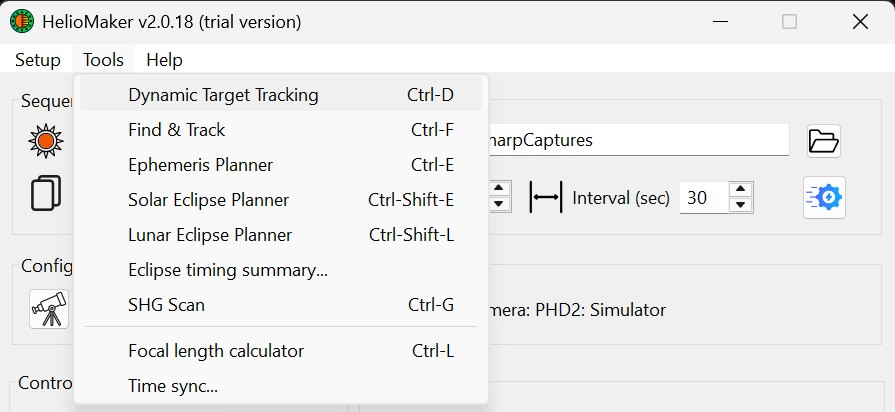
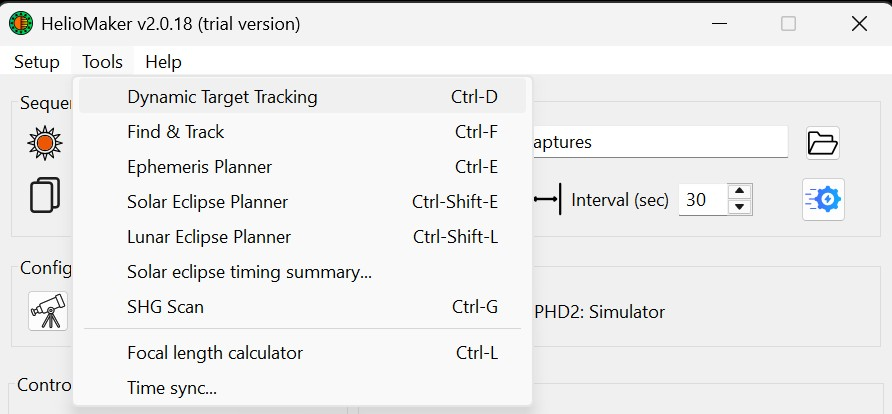
Publish help, solar and lunar guides from HelioMaker a6e2355a

diff --git a/help/WhatsNew.htm b/help/WhatsNew.htm
@@ -165,6 +165,19 @@
         Lunar Eclipse Planner, SHG Scanner, and Focal Length Calculator.
     </p>
     <figure class="shot"><img src="Images/tools_menu.jpg" srcset="Images/tools_menu.jpg 1.5x" alt="Tools menu" class="fig fig-75"></figure>
+    <p>
+        Some entries are available only while HelioMaker is linked to the applications they work with, and stay
+        disabled in the menu until then. <strong>Dynamic Target Tracking</strong> needs PHD2 with its mount connected.
+        <strong>Find &amp; Track</strong> needs PHD2 with its camera and mount connected, and SharpCap Pro as well when
+        PHD2 uses the Virtual Planetary Camera. <strong>SHG Scan</strong> needs both SharpCap Pro and PHD2 (see
+        <a href="SHGScanner.htm">SHG Scanner</a> for its other conditions). <strong>SHG Scan</strong> also stays disabled
+        whenever <strong>Enable SHG scanning</strong> is turned off in <a href="advanced_settings.htm#global-settings">Advanced
+        Settings</a>, whatever else is connected.
+    </p>
+    <p>
+        <strong>Known limit:</strong> <strong>Solar eclipse timing summary</strong> opens the frame-timing summary of a
+        past solar eclipse run. Lunar eclipse runs do not have a timing summary in this release.
+    </p>
 
     <h2 id="eclipse-imaging">Solar Eclipse Planner and Sequencer</h2>
     <p>
